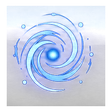
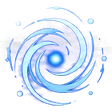
Ikona portalu bez zbytku pozadi + SW v351

diff --git a/sw.js b/sw.js
@@ -1,6 +1,6 @@
 /* Kairos – service worker. Při každé změně index.html zvedni číslo verze. */
-const CACHE = 'kairos-v350';
-const SHELL = ['./', './index.html', './styles.css?v=350', './kairos-core.js?v=350', './data.js?v=350', './app.js?v=350', './astronomy.browser.min.js', './manifest.webmanifest', './logo.png', './logo-emblem.webp?v=1', './cyklus-dne.webp?v=1', './cat-vse.webp?v=1', './cat-portal.webp?v=1', './cat-osobni.webp?v=1', './cat-priroda.webp?v=1', './cat-zatmeni.webp?v=1', './cat-luna.webp?v=1', './cat-planety.webp?v=1', './cat-hvezdy.webp?v=1', './cat-roje.webp?v=1', './cat-slunce.webp?v=1', './cat-komety.webp?v=1', './tile-mapa.webp?v=7', './tile-prochazis.webp?v=7', './tile-vztahy.webp?v=7', './tile-horoskop.webp?v=7', './tile-cisla.webp?v=7', './tile-cakra.webp?v=7', './tile-navraty.webp?v=7', './tile-hvezdy.webp?v=7', './logo-stars.webp?v=1', './moon-tex.png?v=1', './icon-192.png', './icon-512.png', './icon-maskable-512.png', './sky-day.webp?v=7', './sky-night.webp?v=4', './sky-night-hd2.webp?v=1', './sky-day-hd2.webp?v=1'];
+const CACHE = 'kairos-v351';
+const SHELL = ['./', './index.html', './styles.css?v=351', './kairos-core.js?v=351', './data.js?v=351', './app.js?v=351', './astronomy.browser.min.js', './manifest.webmanifest', './logo.png', './logo-emblem.webp?v=1', './cyklus-dne.webp?v=1', './cat-vse.webp?v=2', './cat-portal.webp?v=2', './cat-osobni.webp?v=2', './cat-priroda.webp?v=2', './cat-zatmeni.webp?v=2', './cat-luna.webp?v=2', './cat-planety.webp?v=2', './cat-hvezdy.webp?v=2', './cat-roje.webp?v=2', './cat-slunce.webp?v=2', './cat-komety.webp?v=2', './tile-mapa.webp?v=7', './tile-prochazis.webp?v=7', './tile-vztahy.webp?v=7', './tile-horoskop.webp?v=7', './tile-cisla.webp?v=7', './tile-cakra.webp?v=7', './tile-navraty.webp?v=7', './tile-hvezdy.webp?v=7', './logo-stars.webp?v=1', './moon-tex.png?v=1', './icon-192.png', './icon-512.png', './icon-maskable-512.png', './sky-day.webp?v=7', './sky-night.webp?v=4', './sky-night-hd2.webp?v=1', './sky-day-hd2.webp?v=1'];
 
 self.addEventListener('install', (e) => {
   e.waitUntil(caches.open(CACHE).then((c) => c.addAll(SHELL.map((u) => new Request(u, { cache: 'reload' })))).then(() => self.skipWaiting()));

diff --git a/index.html b/index.html
@@ -25,7 +25,7 @@ var mt=document.querySelector('meta[name=theme-color]');if(mt)mt.setAttribute('c
 <link rel="preconnect" href="https://fonts.googleapis.com">
 <link rel="preconnect" href="https://fonts.gstatic.com" crossorigin>
 <link rel="stylesheet" href="https://fonts.googleapis.com/css2?family=Cormorant+Garamond:ital,wght@0,500;0,600;1,500&family=IBM+Plex+Sans:wght@400;500;600&family=IBM+Plex+Mono:wght@400;500&display=swap">
-<link rel="stylesheet" href="styles.css?v=350">
+<link rel="stylesheet" href="styles.css?v=351">
 </head>
 <body>
 <div id="splash" aria-hidden="true"><img class="sp-em" src="logo-emblem.webp?v=1" alt=""><span class="bname"><i class="l1"><b>NEBESKÝ</b></i><i class="l2"><b>KOMPAS</b></i></span><img class="sp-st" src="logo-stars.webp?v=1" alt=""><span class="claim sp-cl"><i>tvůj</i><i class="mid">hvězdný</i><i class="big">kalendář</i></span></div>
@@ -55,8 +55,8 @@ var mt=document.querySelector('meta[name=theme-color]');if(mt)mt.setAttribute('c
 <button type="button" class="backbtn" id="backBtn" aria-label="Zpět, odkud jsi přišel">‹ Zpět</button>
 <div class="upbar" id="upbar" role="status"><span><b>Nová verze je připravená</b>Obnov a máš ji hned.</span><button type="button" id="upGo">Obnovit</button><button type="button" class="upx" id="upX" aria-label="Zavřít">×</button></div>
 <script src="astronomy.browser.min.js"></script>
-<script src="kairos-core.js?v=350"></script>
-<script src="data.js?v=350"></script>
-<script src="app.js?v=350"></script>
+<script src="kairos-core.js?v=351"></script>
+<script src="data.js?v=351"></script>
+<script src="app.js?v=351"></script>
 </body>
 </html>

diff --git a/app.js b/app.js
@@ -1,6 +1,6 @@
 (function () {
   'use strict';
-  const VERSION = 'v350';
+  const VERSION = 'v351';
   const A = Astronomy;
   const K = createKairosEngine(A);
   const TX = createKairosTexts(K);
@@ -1384,7 +1384,7 @@
     slunce: '<circle cx="8" cy="8" r="3" fill="none" stroke="currentColor" stroke-width="1.1"/><path d="M8 1.5v2M8 12.5v2M1.5 8h2M12.5 8h2M3.4 3.4l1.4 1.4M11.2 11.2l1.4 1.4M3.4 12.6l1.4-1.4M11.2 4.8l1.4-1.4" stroke="currentColor" stroke-width="1.1" stroke-linecap="round"/>',
     komety: '<circle cx="4.5" cy="11.5" r="2.4" fill="currentColor"/><path d="M6.5 9.5 14 2M8.8 11.2 14.5 6M5 8.2 11 2.5" stroke="currentColor" stroke-width="1" stroke-linecap="round" opacity=".85"/>',
   };
-  const catIcon = (c) => (CAT_SVG[c] || c === 'portal') ? `<img class="cico" src="cat-${c}.webp?v=1" alt="" width="28" height="28">` : '';
+  const catIcon = (c) => (CAT_SVG[c] || c === 'portal') ? `<img class="cico" src="cat-${c}.webp?v=2" alt="" width="28" height="28">` : '';
   const CAT_CZ = { vse: 'vše', portal: 'portály', luna: 'Luna', zatmeni: 'zatmění', slunce: 'Slunce', planety: 'planety', roje: 'roje', hvezdy: 'hvězdy', komety: 'komety', osobni: 'tvé cykly', priroda: 'příroda' };
   const TODAY_KEY = K.isoDate(np.y, np.m, np.d);
 
